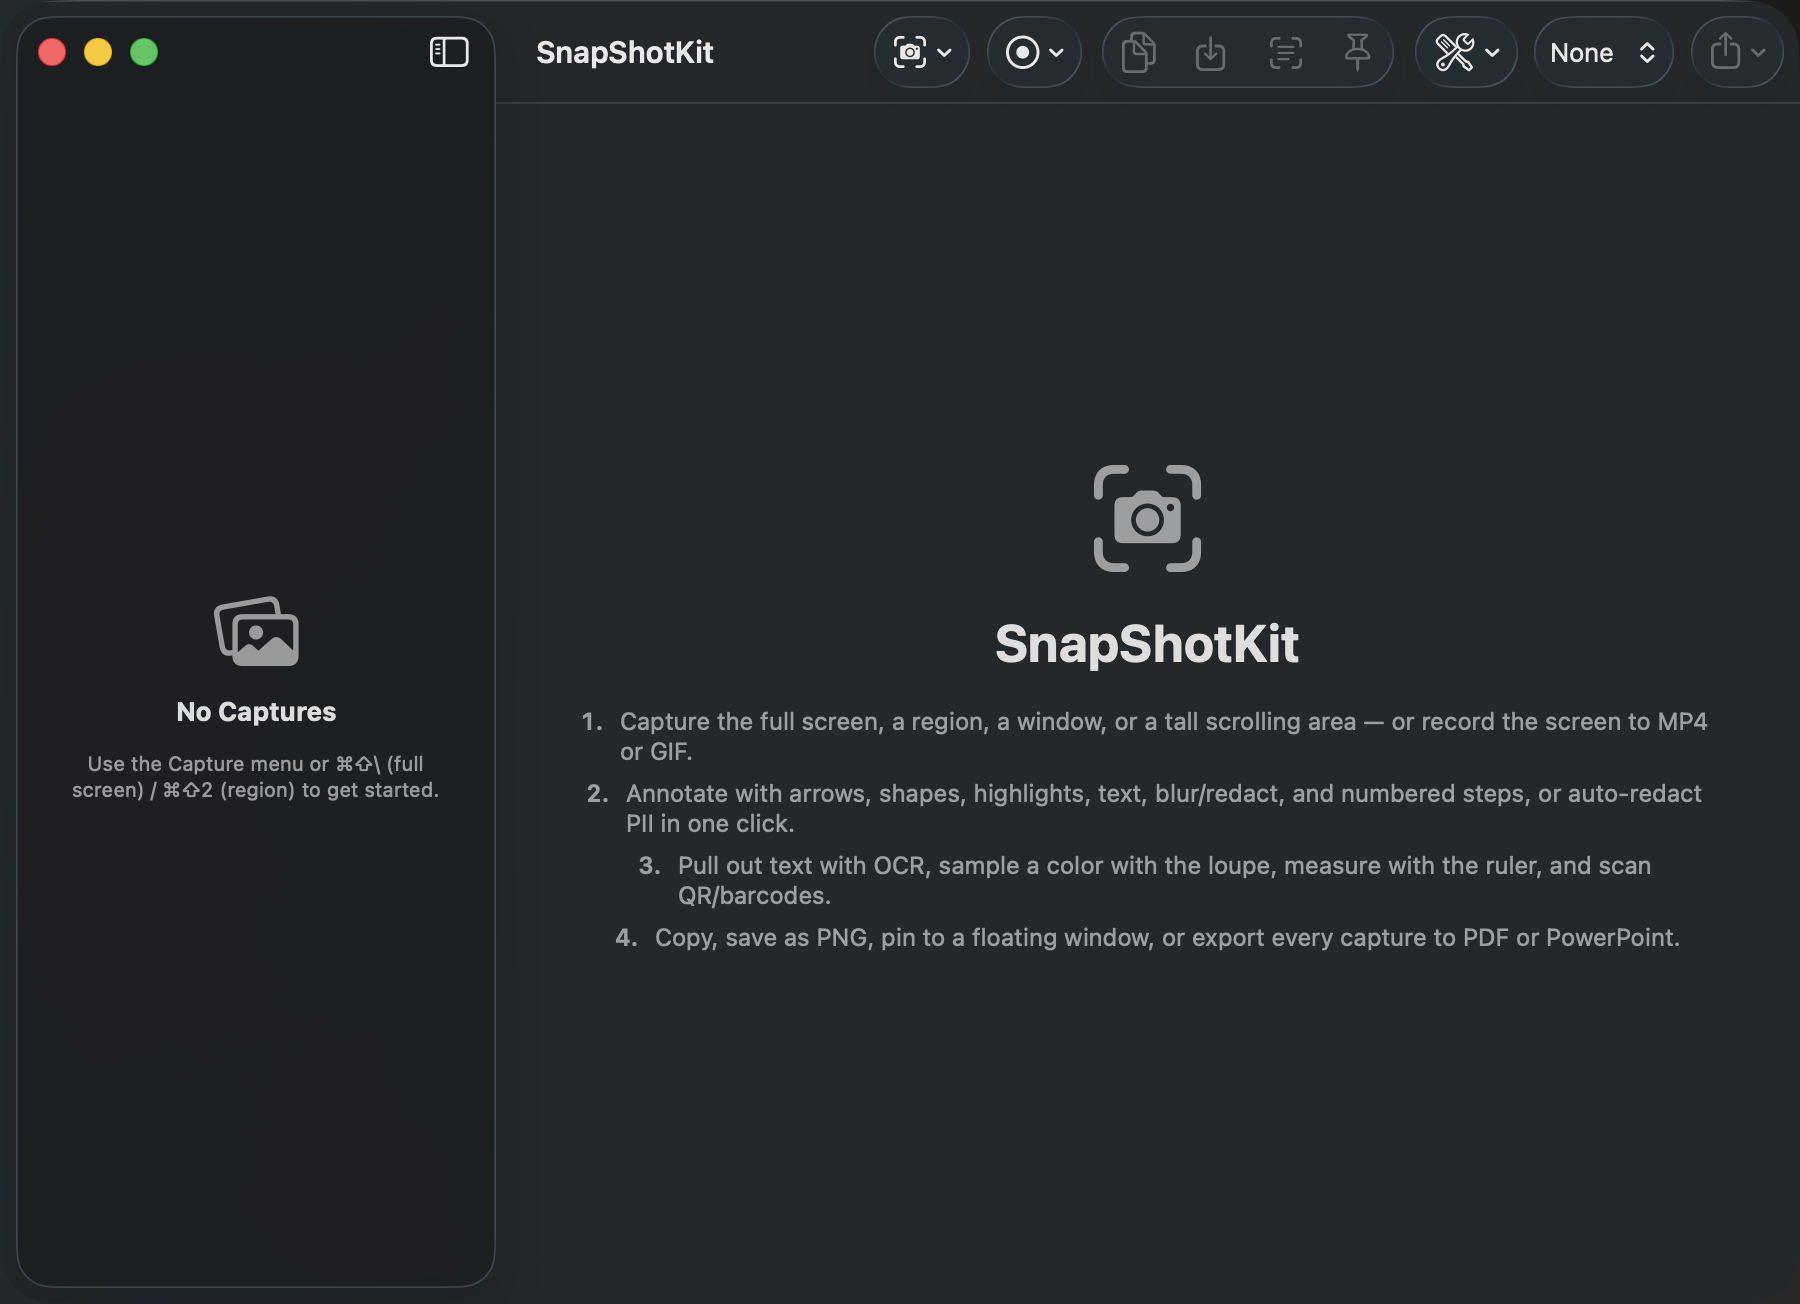
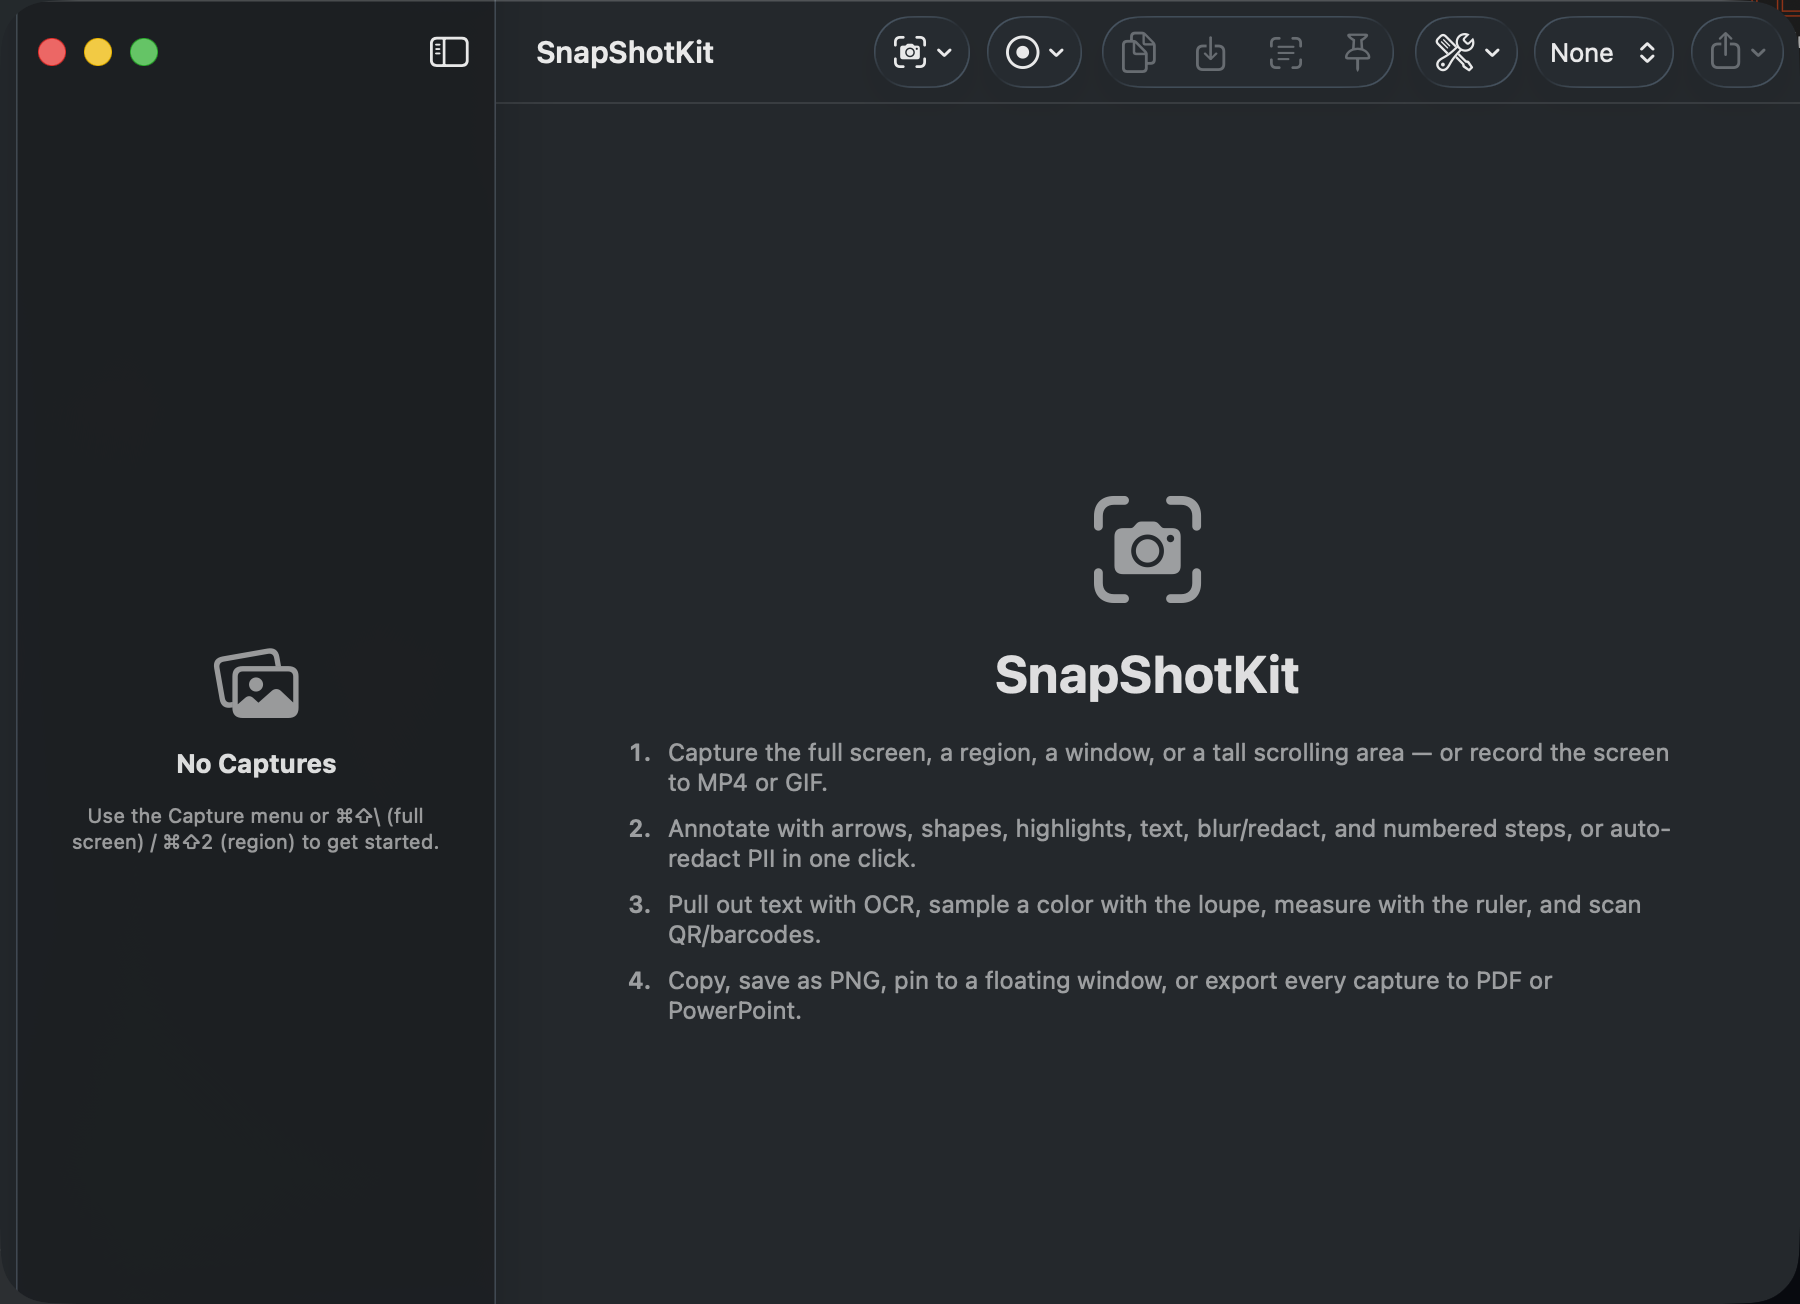
fix: align numbered list in empty-state instructions

diff --git a/Sources/SnapShotKit/ContentView.swift b/Sources/SnapShotKit/ContentView.swift
@@ -308,7 +308,7 @@ struct ContentView: View {
                 .foregroundStyle(.secondary)
             Text("SnapShotKit")
                 .font(.largeTitle.bold())
-            VStack(spacing: 6) {
+            VStack(alignment: .leading, spacing: 8) {
                 instruction("1.", "Capture the full screen, a region, a window, or a tall scrolling area — or record the screen to MP4 or GIF.")
                 instruction("2.", "Annotate with arrows, shapes, highlights, text, blur/redact, and numbered steps, or auto-redact PII in one click.")
                 instruction("3.", "Pull out text with OCR, sample a color with the loupe, measure with the ruler, and scan QR/barcodes.")
@@ -316,6 +316,7 @@ struct ContentView: View {
             }
             .font(.callout)
             .foregroundStyle(.secondary)
+            .frame(maxWidth: 540)
         }
         .padding(40)
         .frame(maxWidth: .infinity, maxHeight: .infinity)
@@ -323,8 +324,13 @@ struct ContentView: View {
 
     private func instruction(_ number: String, _ text: String) -> some View {
         HStack(alignment: .firstTextBaseline, spacing: 8) {
-            Text(number).monospacedDigit().fontWeight(.semibold)
+            Text(number)
+                .monospacedDigit()
+                .fontWeight(.semibold)
+                .frame(width: 22, alignment: .trailing)
             Text(text)
+                .fixedSize(horizontal: false, vertical: true)
+                .frame(maxWidth: .infinity, alignment: .leading)
         }
     }
 